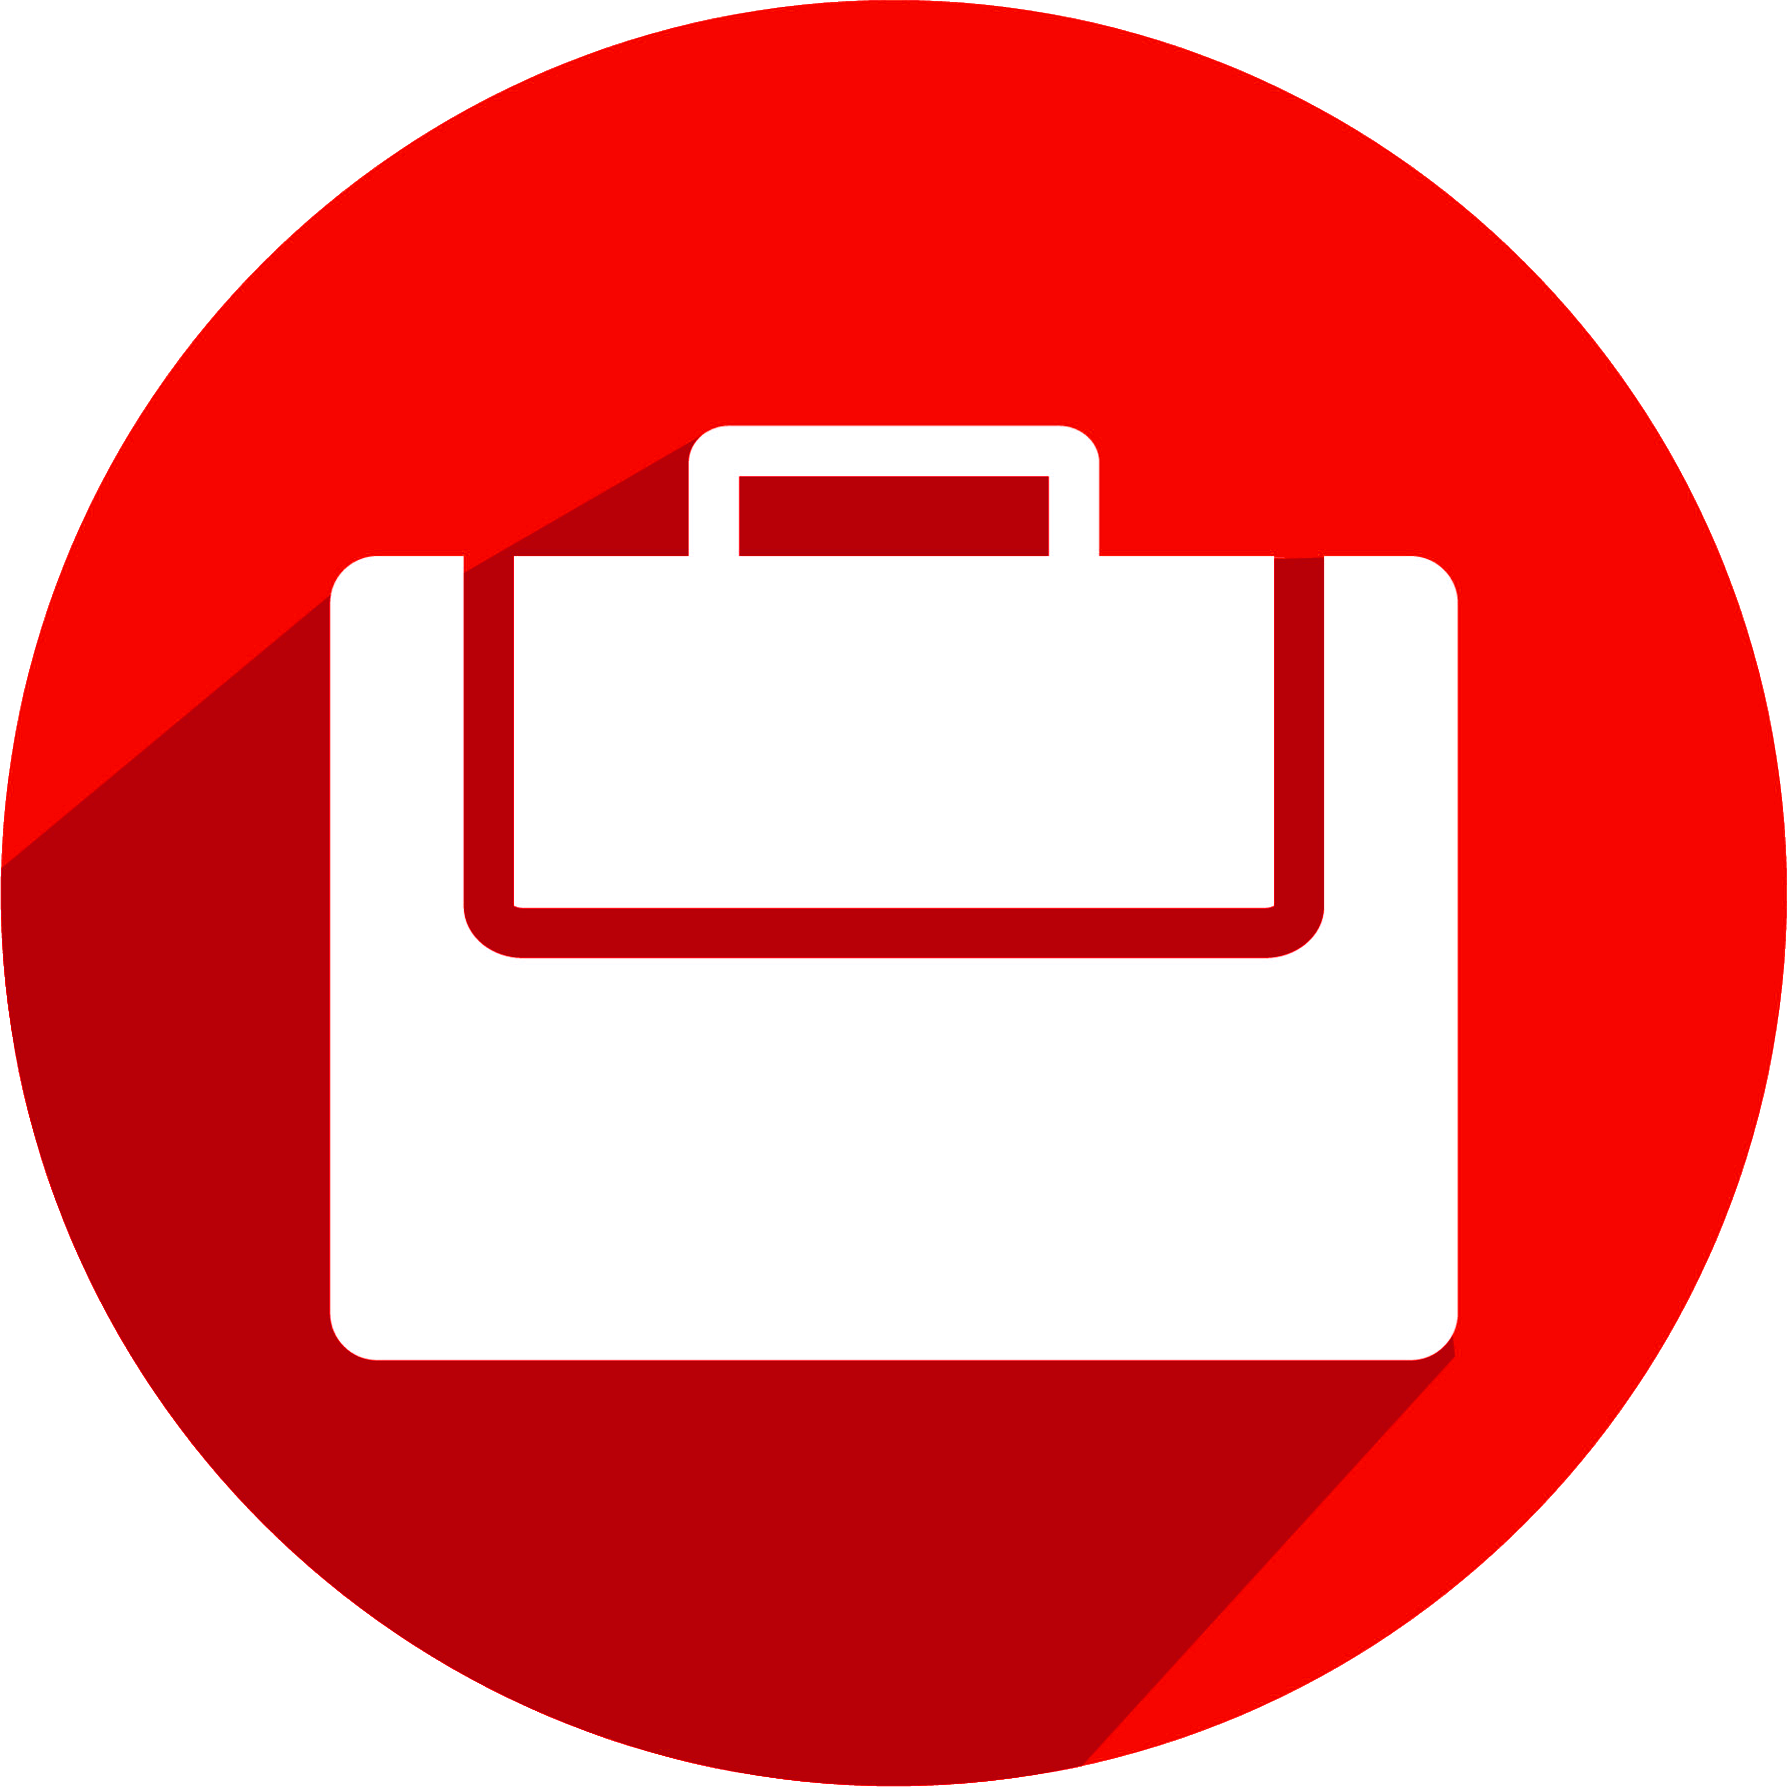
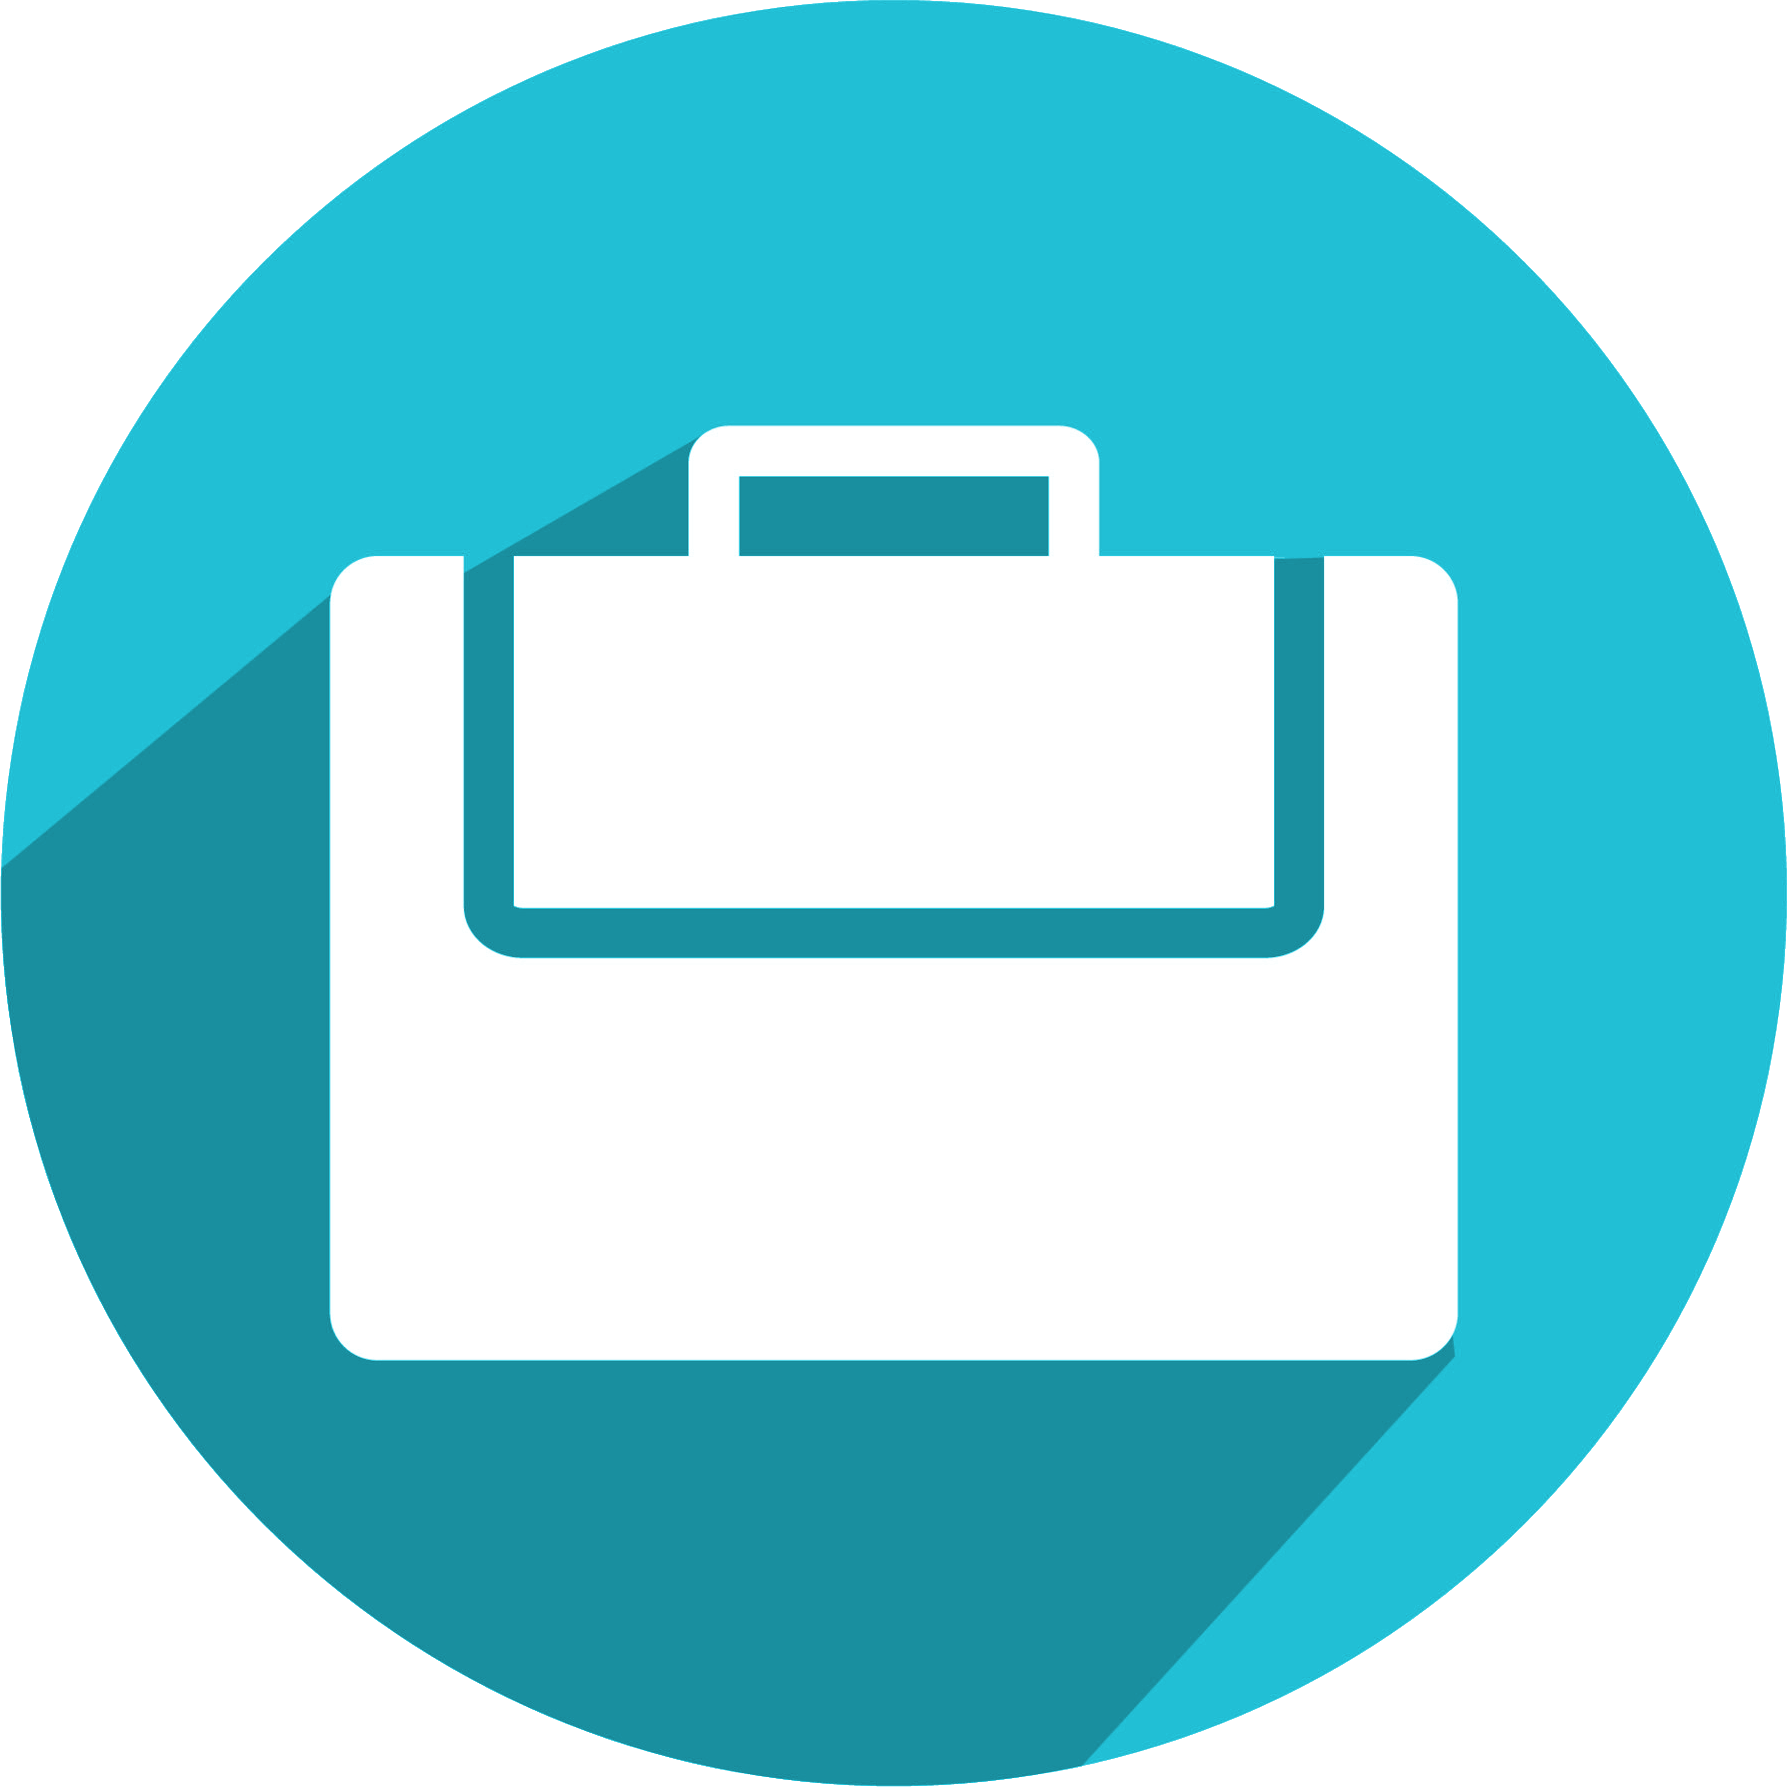
Sixth commit

diff --git a/index.html b/index.html
@@ -117,6 +117,13 @@
 
         <section class="portfolio-section">
 
+            <!-- BOTÓN GENERAL DE DRIVE -->
+            <div class="general-drive-container">
+                <a href="https://drive.google.com/drive/folders/1DM8_VH5Iqd5oGT_Tx8VXueKozWrbQE-8?usp=drive_link" target="_blank" class="general-drive-button">
+                    <i class="fa-brands fa-google-drive"></i> Ver carpeta de Google Drive
+                </a>
+            </div>
+
             
             <!-- OBSERVACIONES -->
              
@@ -414,9 +421,48 @@
                     </div>
                 </article>
 
+                <!-- Planificación 7 -->
 
+                <article class="project-card actividad-card">
+                    <button class="task-button actividad-button"
+                        data-title="Planificación 6: Teoría de grafos"
+                        data-link="https://docs.google.com/document/d/1y_6S0P_9z8xuyiESxjOb3nQSNHoR_yhg/preview">
+                        
+                        <div class="card-number activity-number">7</div>
+                        <div class="card-content"><h3>Planificación: Introduccion a la teoría de grafos</h3></div>
+                    </button>
 
-                    
+                    <div class="activity-side-button"
+                        onclick="event.stopPropagation()">
+
+                        <div class="visit-status con-visita">Con visita</div>
+
+                        <a href="https://docs.google.com/document/d/1y_6S0P_9z8xuyiESxjOb3nQSNHoR_yhg/edit?usp=sharing&ouid=118370783240578077396&rtpof=true&sd=true"
+                        target="_blank"class="resource-button"onclick="event.stopPropagation()">
+                            Drive
+                        </a>
+                    </div>
+                </article>
+
+                <!-- Autoevaluación 7 -->
+
+                <article class="project-card actividad-card">
+
+                    <button class="task-button actividad-button"
+                        data-title="Autoevaluación de la sexta clase dictada"
+                        data-link="https://docs.google.com/document/d/1fUoWWsxzdd9B2qqu52KIviM-d2f2ZmWohbO3ewTFdJQ/preview">
+
+                        <div class="card-content"><h3>Autoevaluación de la septima clase </h3></div>
+                    </button>
+
+                    <div class="activity-side-button"
+                        onclick="event.stopPropagation()">
+                        <a href="https://docs.google.com/document/d/1fUoWWsxzdd9B2qqu52KIviM-d2f2ZmWohbO3ewTFdJQ/edit?usp=sharing"
+                        target="_blank"class="resource-button"onclick="event.stopPropagation()">
+                            Drive
+                        </a>
+                    </div>
+                </article>
 
                 </div>
 

diff --git a/styles.css b/styles.css
@@ -671,3 +671,46 @@ body{
         text-align:center;
     }
 }
+
+/* =========================================
+   BOTÓN GENERAL DE DRIVE
+========================================= */
+
+.general-drive-container {
+    width: 100%;
+    margin-bottom: 25px;
+    display: flex;
+    justify-content: center;
+}
+
+.general-drive-button {
+    width: 100%;
+    max-width: 100%;
+    padding: 18px 25px;
+    background: rgba(255, 255, 255, 0.1);
+    border: 1px solid rgba(255, 255, 255, 0.2);
+    backdrop-filter: blur(12px);
+    color: white;
+    font-family: 'Poppins', sans-serif;
+    font-size: 1.15rem;
+    font-weight: 700;
+    text-decoration: none;
+    border-radius: 12px;
+    display: flex;
+    align-items: center;
+    justify-content: center;
+    gap: 12px;
+    transition: all 0.3s ease;
+    box-shadow: 0 8px 20px rgba(0, 0, 0, 0.15);
+}
+
+.general-drive-button i {
+    font-size: 1.3rem;
+    color: #8ff5ff;
+}
+
+.general-drive-button:hover {
+    background: rgba(255, 255, 255, 0.2);
+    transform: translateY(-3px);
+    box-shadow: 0 12px 25px rgba(0, 0, 0, 0.2);
+}
